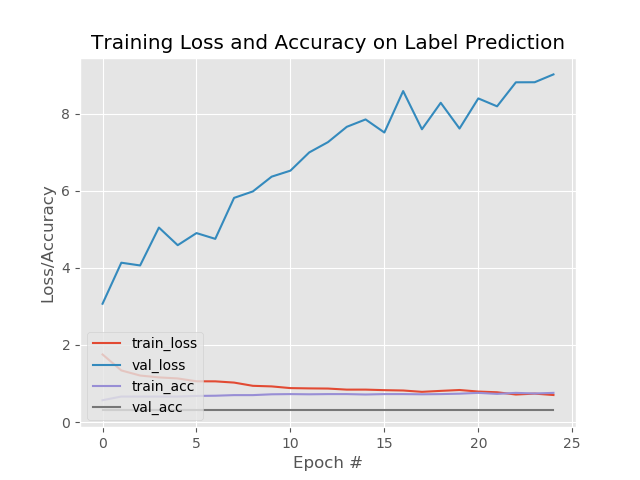
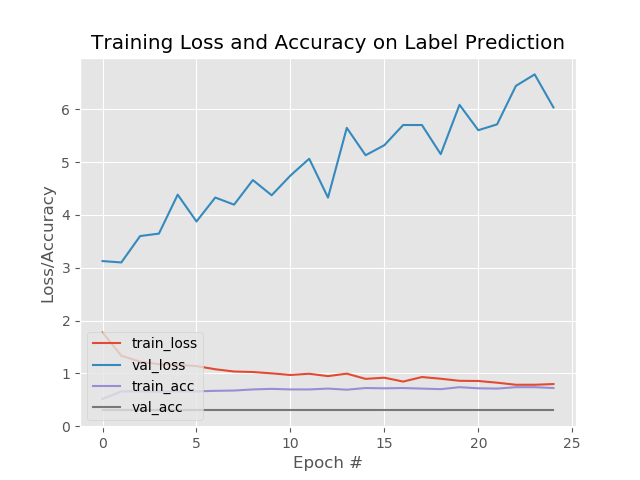
fine-tuning still

diff --git a/pyimagesearch/lenet.py b/pyimagesearch/lenet.py
@@ -5,6 +5,7 @@ from keras.layers.convolutional import MaxPooling2D
 from keras.layers.core import Activation
 from keras.layers.core import Flatten
 from keras.layers.core import Dense
+from keras.layers.core import Dropout
 from keras import backend as K
 
 class LeNet:
@@ -19,20 +20,27 @@ class LeNet:
 			inputShape = (depth, height, width)
 
 		# first set of CONV => RELU => POOL layers
-		model.add(Conv2D(20, (5, 5), padding="same",
+		model.add(Conv2D(64, (3, 3), padding="same",
 			input_shape=inputShape))
 		model.add(Activation("relu"))
 		model.add(MaxPooling2D(pool_size=(2, 2), strides=(2, 2)))
 
 		# second set of CONV => RELU => POOL layers
-		model.add(Conv2D(50, (5, 5), padding="same"))
+		model.add(Conv2D(128, (3, 3), padding="same"))
 		model.add(Activation("relu"))
 		model.add(MaxPooling2D(pool_size=(2, 2), strides=(2, 2)))
+        
+		# third set of CONV => RELU => POOL layers
+		model.add(Conv2D(256, (3, 3), padding="same"))
+		model.add(Activation("relu"))
+		model.add(MaxPooling2D(pool_size=(2, 2), strides=(2, 2)))
+              
 
 		# first (and only) set of FC => RELU layers
 		model.add(Flatten())
-		model.add(Dense(500))
+		model.add(Dense(1000))
 		model.add(Activation("relu"))
+		model.add(Dropout(0.5))
 
 		# softmax classifier
 		model.add(Dense(classes))
